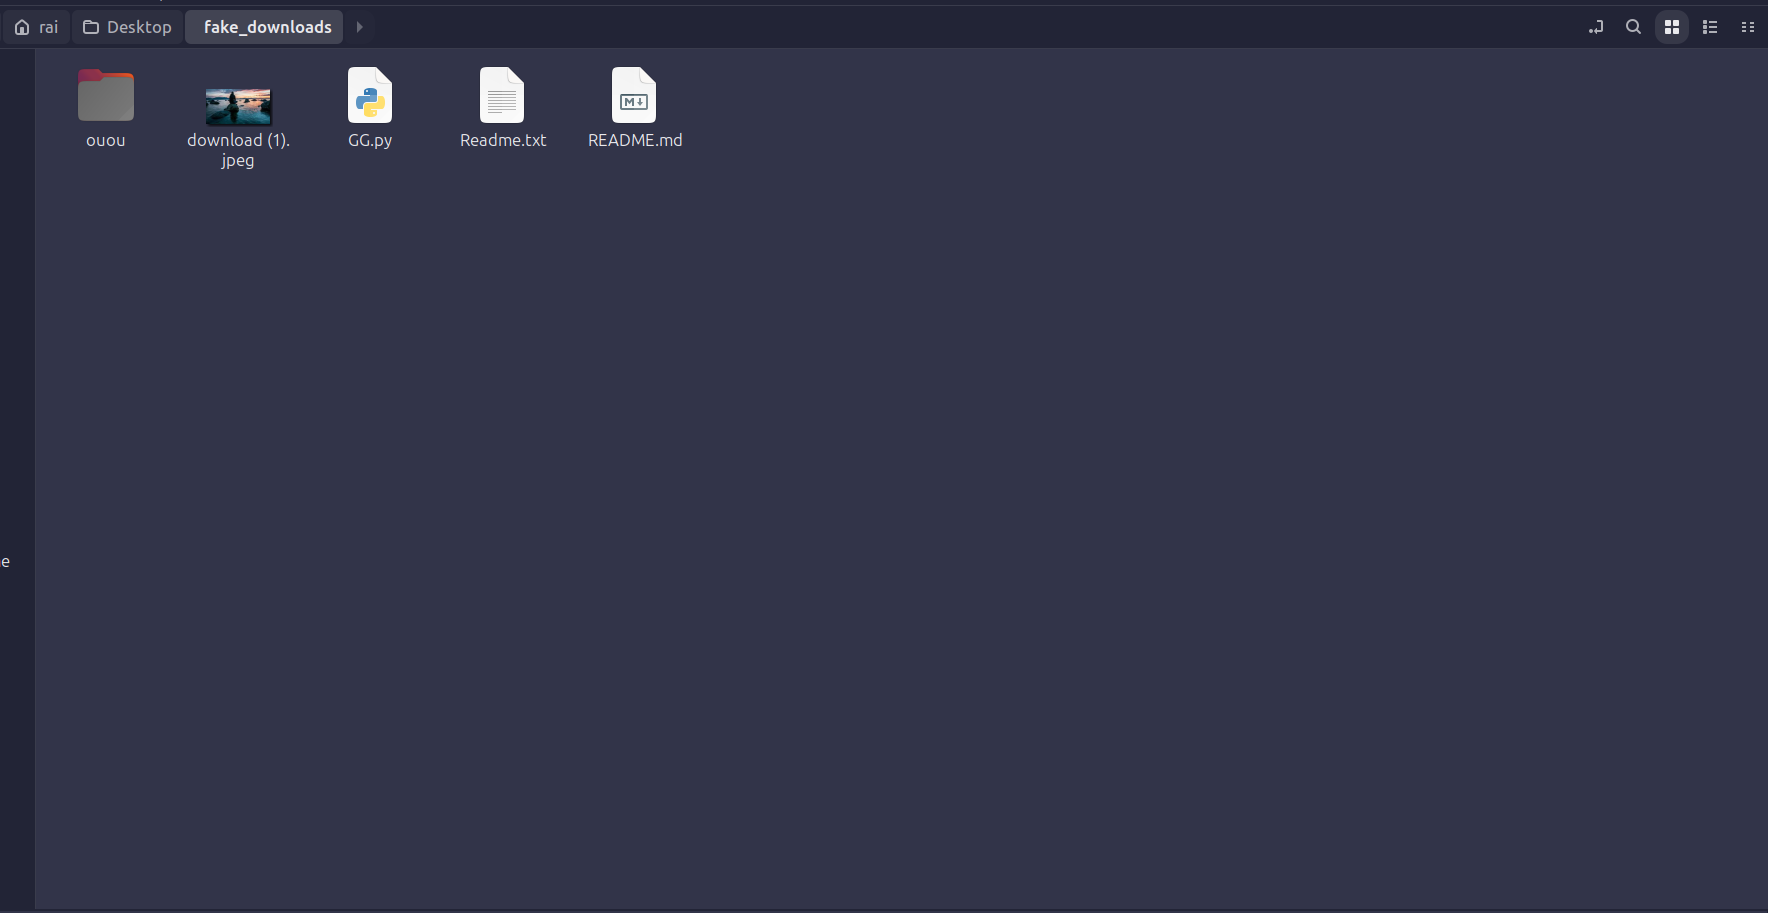
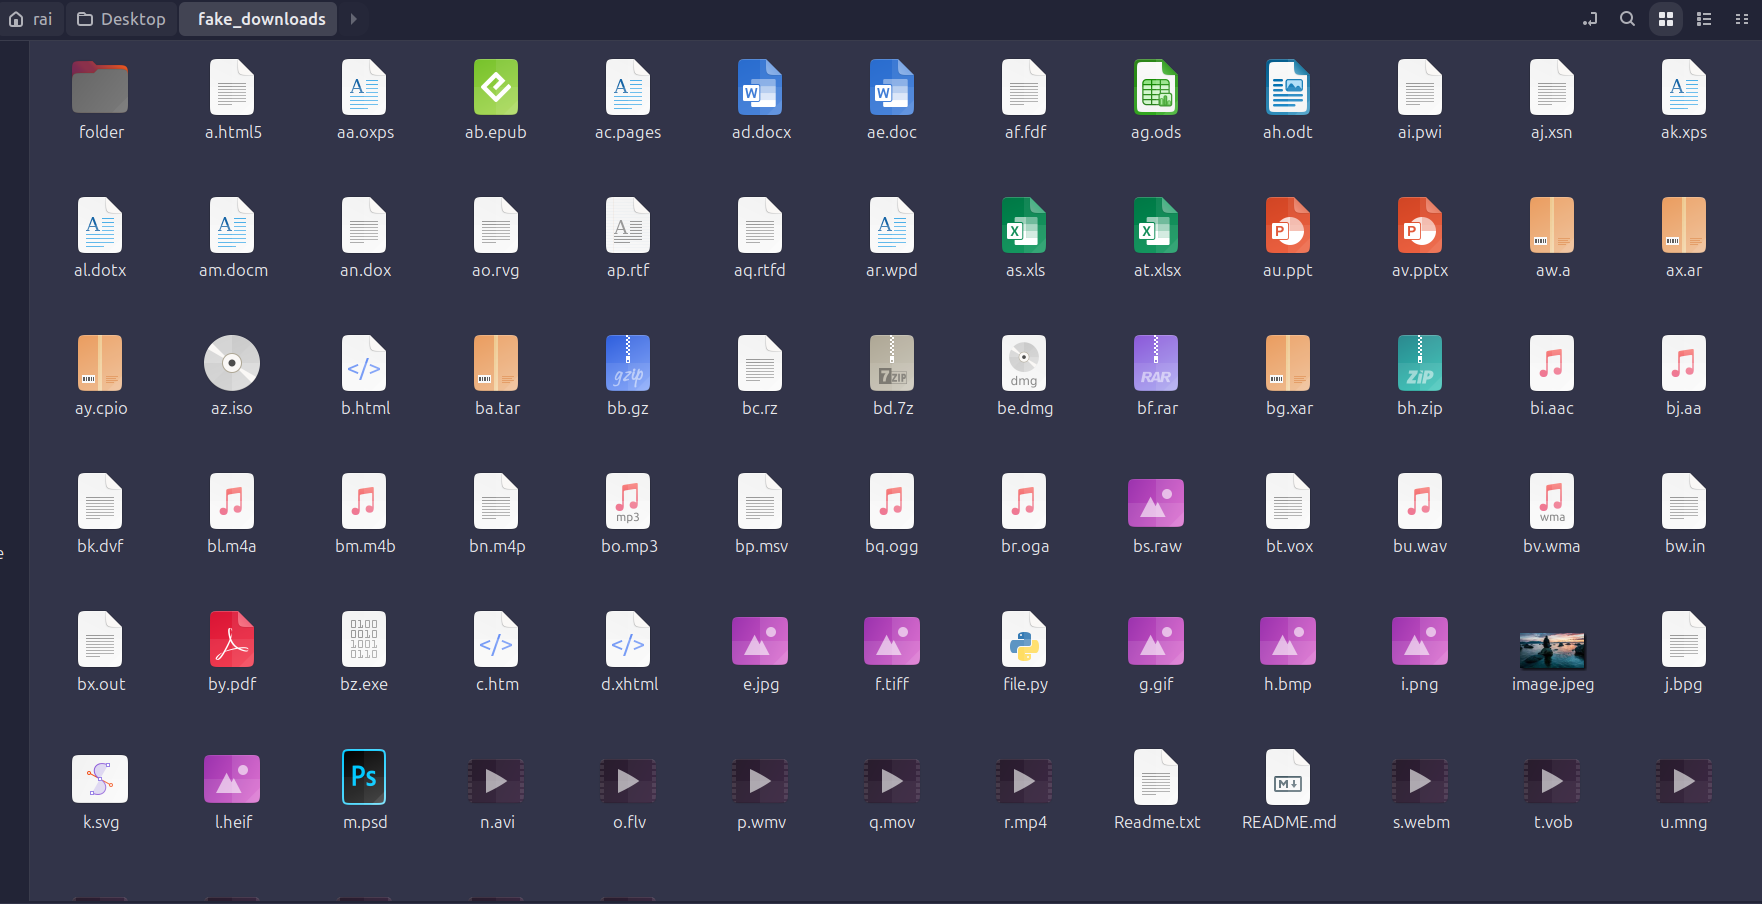
forgot to commit some stuff in previous commit

diff --git a/run_pgm.py b/run_pgm.py
@@ -1,4 +1,7 @@
 """
 Run this file to run the Download_organizer program
 """
-import src
+from src.downloads_organizer.__main__  import main
+
+main()
+

diff --git a/README.md b/README.md
@@ -8,7 +8,7 @@ it sorts the given folder into different folders with respect to the extensions 
 
 ### Example:
 `Before:`
-![alt text](image.png)
+![alt text](assets/before.png)
 
 `After`
 ![alt text](assets/after.png)
